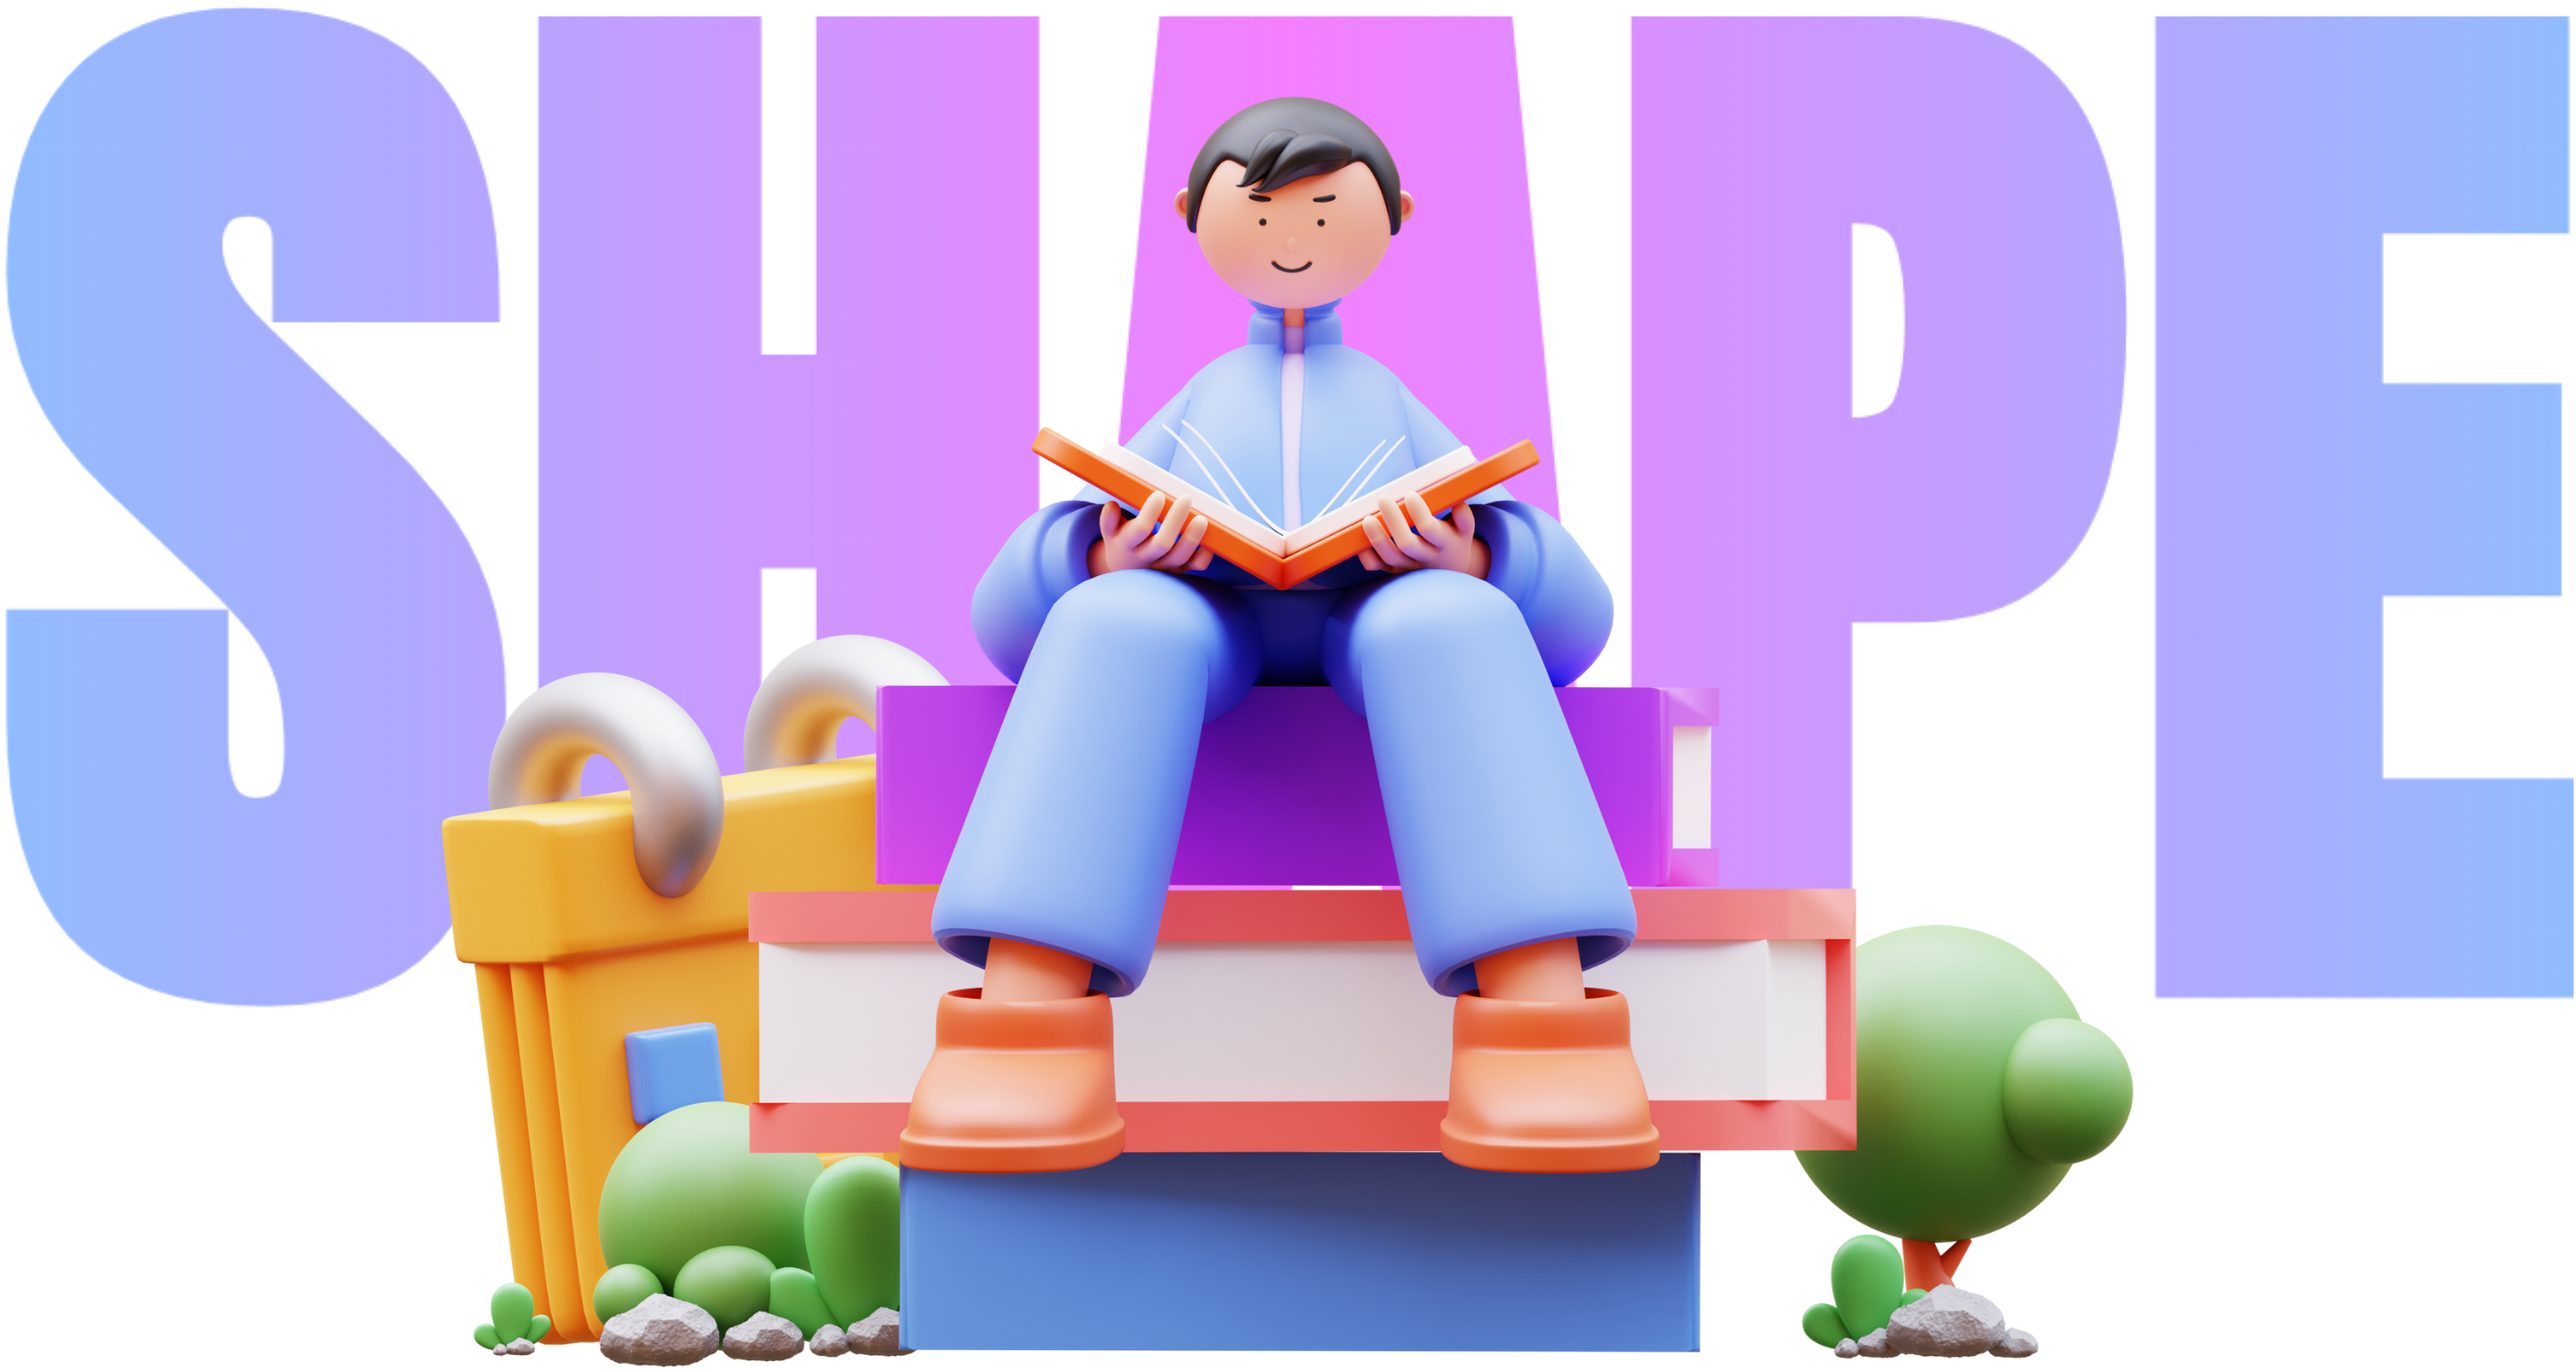
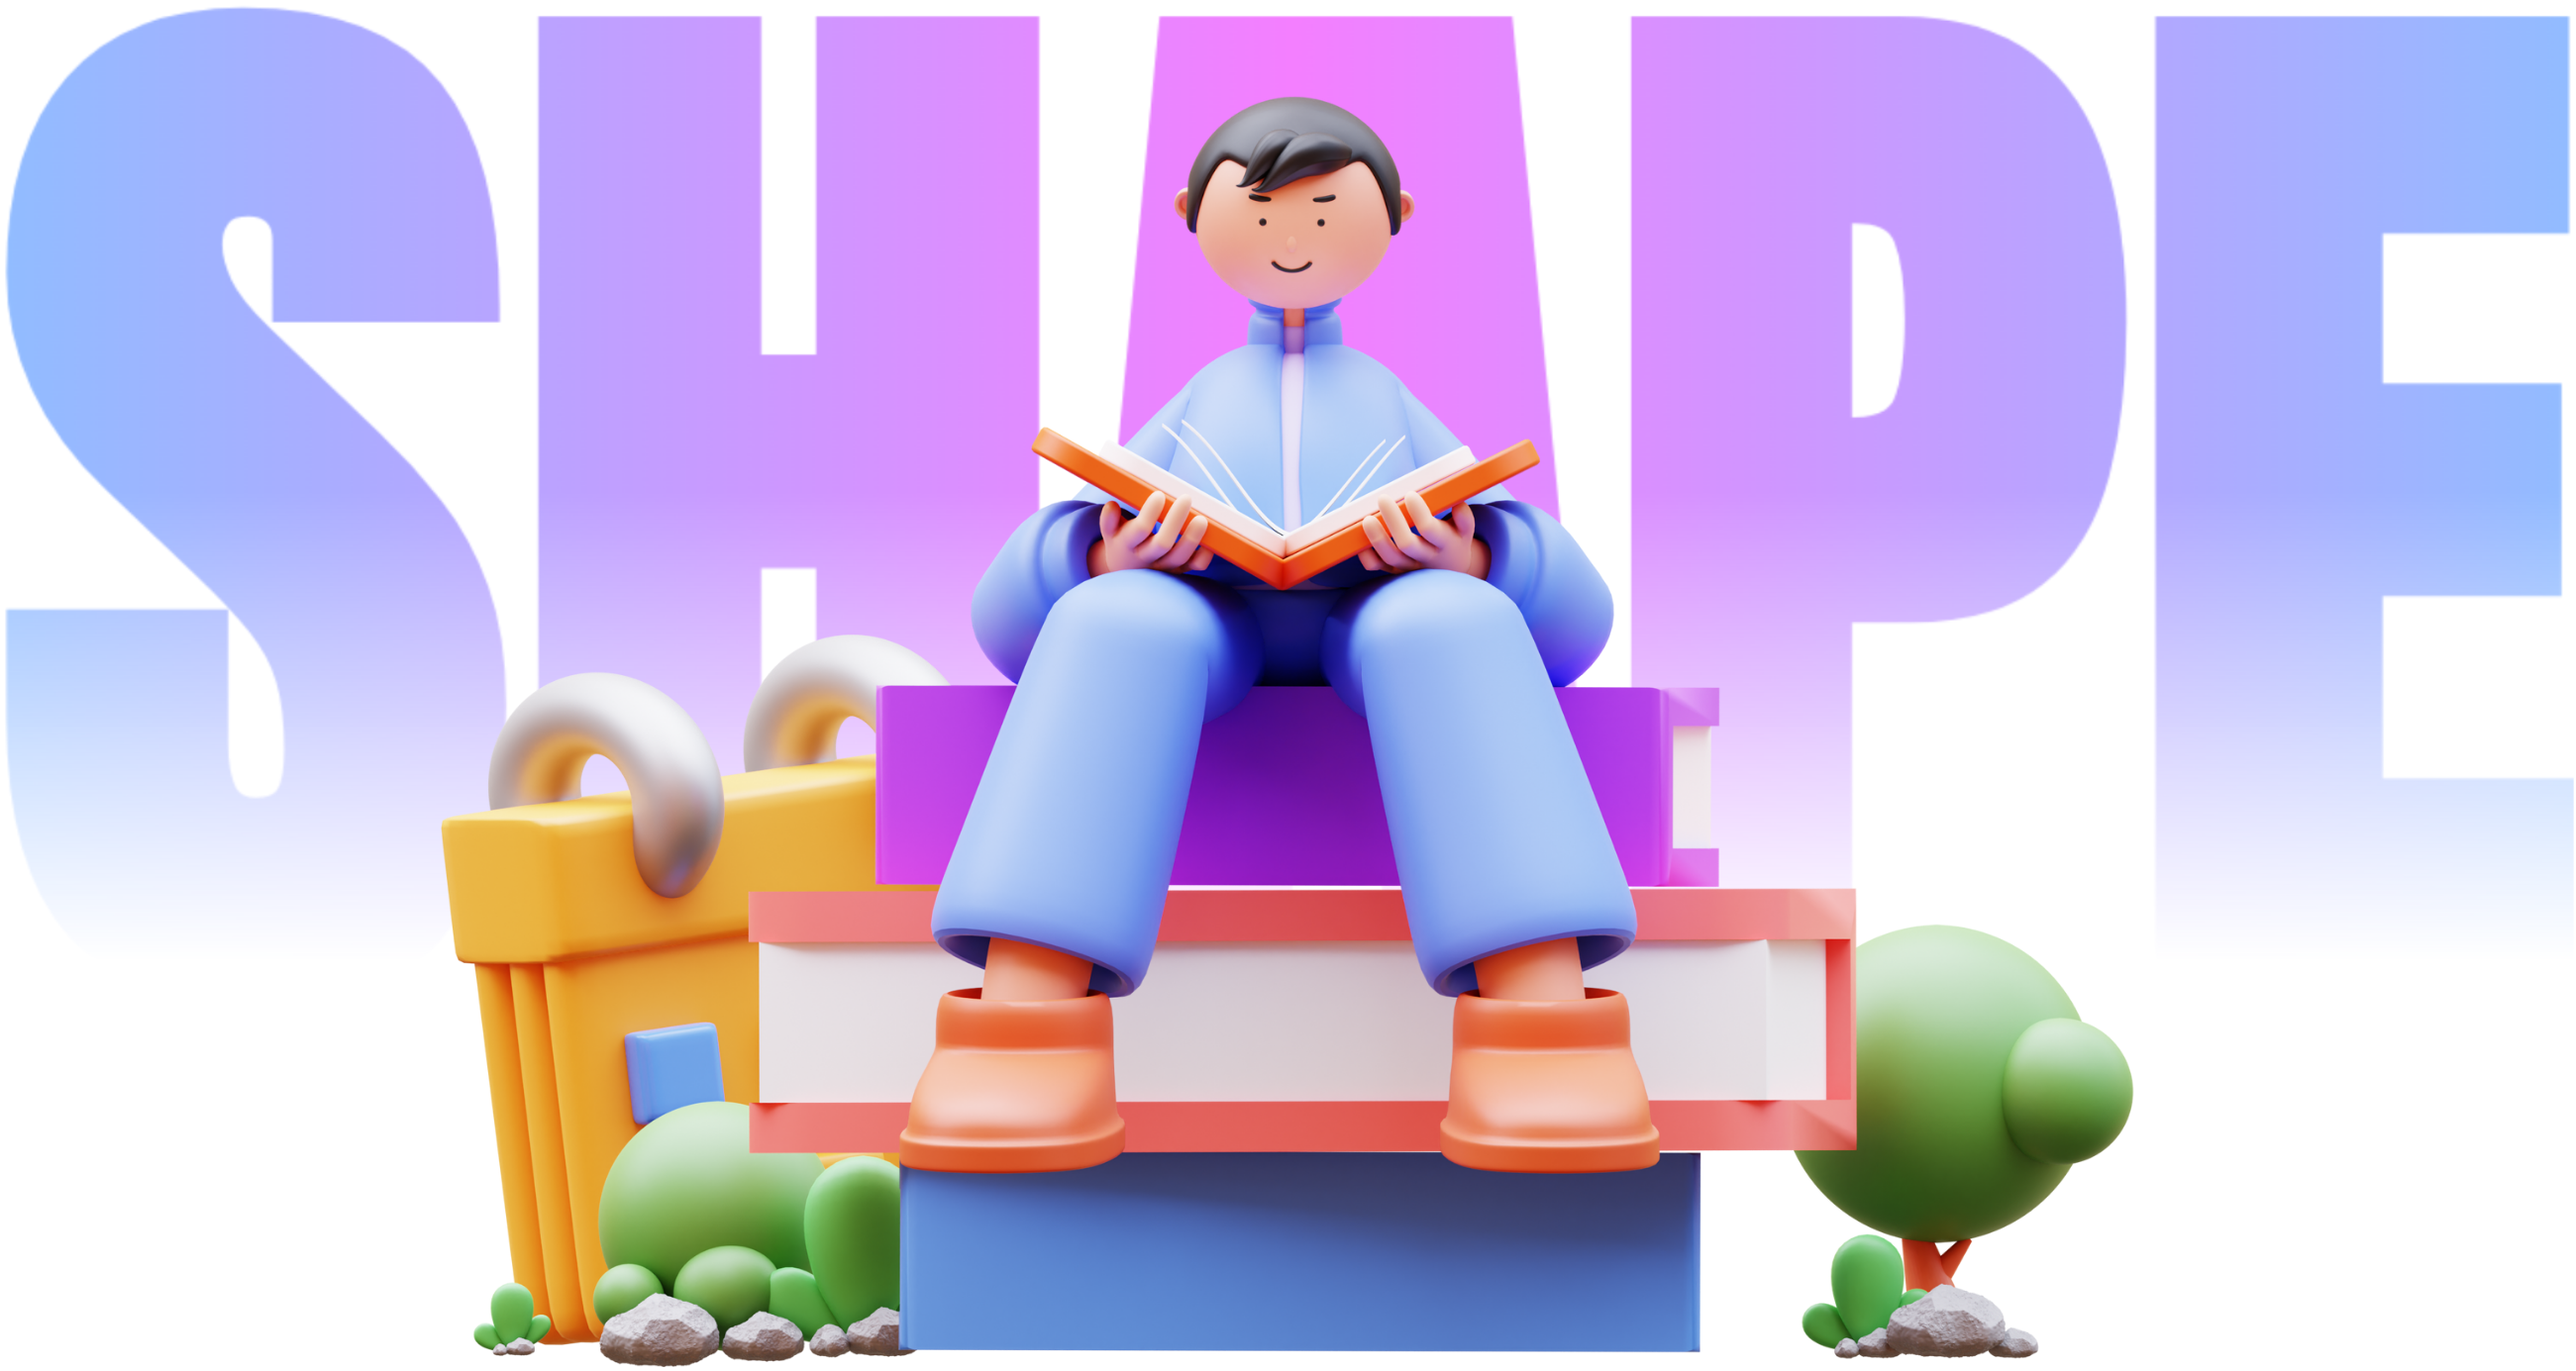
change about us photo

diff --git a/resources/views/landing_page.blade.php b/resources/views/landing_page.blade.php
@@ -1,6 +1,6 @@
 <x-default class="bg-card" :title="'SHAPE: Landing Page'">
     <section
-        class="bg-card w-dvw lg:h-dvh overflow-hidden p-4 lg:px-8 lg:pt-8 flex flex-col gap-14 items-center lg:justify-between relative hero-section mask-b-from-90% to-transparent
+        class="bg-card w-dvw lg:h-dvh overflow-hidden p-4 lg:px-8 lg:pt-8 flex flex-col gap-14 items-center lg:justify-between relative hero-section mask-b-from-85% to-transparent
                 ">
         {{-- Navbar --}}
         <nav
